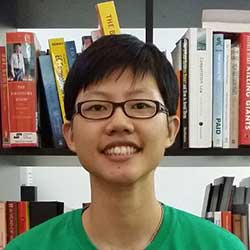
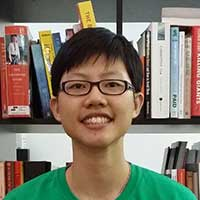
Update profile images to responsive

diff --git a/_includes/footer.html b/_includes/footer.html
@@ -1,7 +1,7 @@
 <footer class="site-footer">
   <div class="site-footer__wrapper--main">
     <div class="footer-main sugarcane">
-      <img class="footer-main__avatar" src="{{ site.url }}/images/avatar.jpg" alt="Avatar" />
+      <img srcset="{{ site.url }}/images/avatar@2x.jpg 2x" src="{{ site.url }}/images/avatar.jpg" alt="Avatar" class="footer-main__avatar" />
       <div class="footer-main__about">
         <h3>Hello!</h3>
         <p>{{ site.about }}</p>

diff --git a/about/index.md b/about/index.md
@@ -3,7 +3,7 @@ layout: page
 title: About
 ---
 ###So who are you?
-<img src="{{ site.url }}/images/headshot.jpg" alt="Profile image" class="profile-image"/>
+<img srcset="{{ site.url }}/images/headshot@2x.jpg 2x" src="{{ site.url }}/images/headshot.jpg" alt="Profile photo" class="profile-image" />
 
 My name is Chen Hui Jing. I first dipped my toe into the waters of web development when I built my first HTML website in 2008 for the Malaysia Basketball Association. 
 
